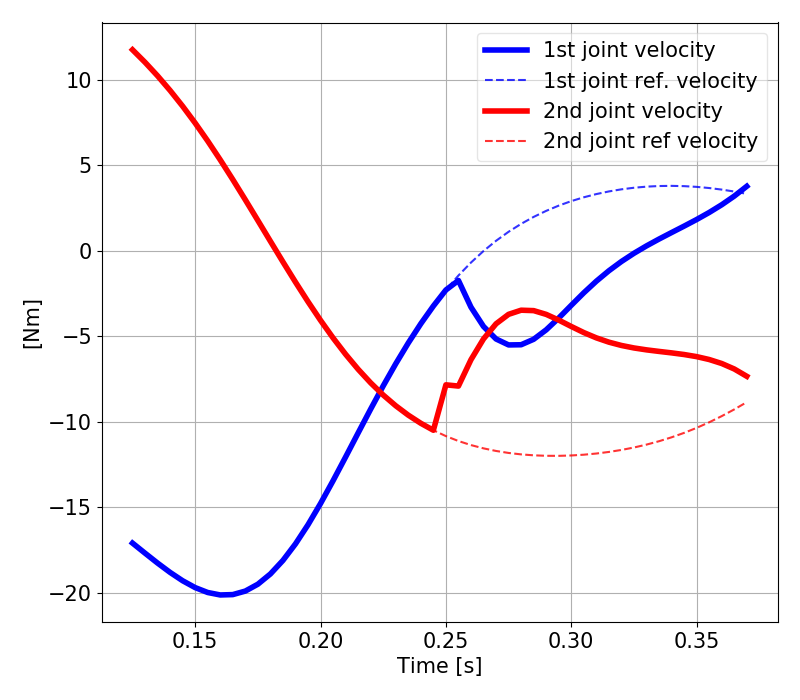
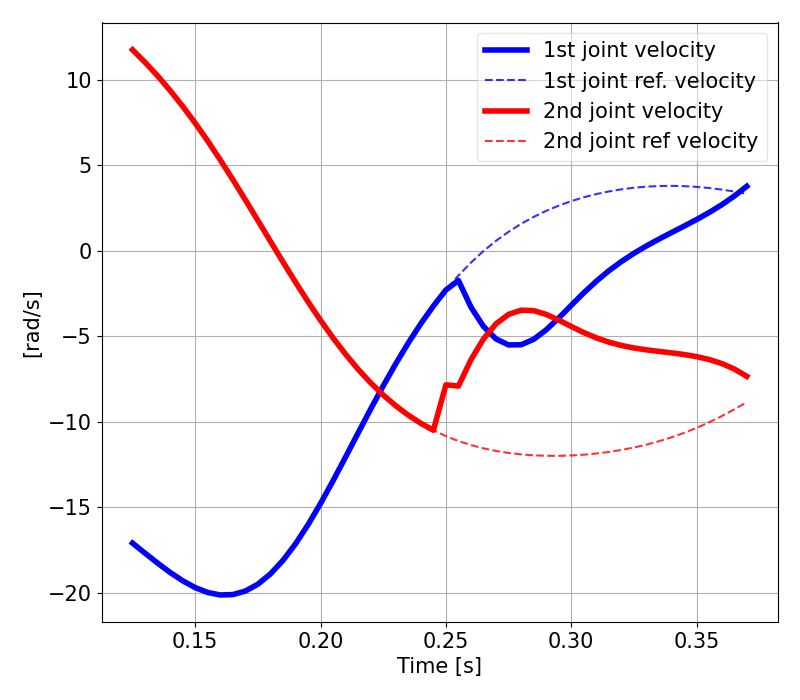
update assignment 02

Changed region(s): [[0.7188, 0.06, 0.9375, 0.21], [0.5, 0.93, 0.5938, 0.96], [0.0312, 0.42, 0.0625, 0.51]]

diff --git a/02_assignment/ddp_doublependulum_template.py b/02_assignment/ddp_doublependulum_template.py
@@ -238,6 +238,7 @@ class DDPSolverDoublePendulum(DDPSolverLinearDyn):
         cost = self.cost(X_sim, U_sim)                                          
         print("Cost Sim.", cost)
         print("Effort Sim.", np.linalg.norm(U_sim))
+        print("K", np.linalg.norm(KK))
         return X_sim, U_sim
 
 
@@ -263,7 +264,7 @@ if __name__=='__main__':
     mu = 10                  # initial regularization
     ddp_params = {}
     ddp_params['alpha_factor'] = 0.5
-    ddp_params['mu_factor'] = 0.
+    ddp_params['mu_factor'] = 10.
     ddp_params['mu_max'] = 1e0
     ddp_params['min_alpha_to_increase_mu'] = 0.1
     ddp_params['min_cost_impr'] = 1e-1
@@ -368,8 +369,6 @@ if __name__=='__main__':
         # plt.gca().set_xlabel('Time [s]')
         # plt.gca().set_ylabel('[Nm]')
         # leg = plt.legend(["1st joint torque", "1st joint ref. torque","2nd joint torque", "2nd joint ref. torque"],loc='upper right')
-        #plt.plot(time_vec[:-1], U_sim[:,1], "r")
-        #plt.plot(time_vec[:-1], U[:,1], "r--", alpha=0.8, linewidth=1.5)
         if conf.TORQUE_LIMITS:
             plt.plot(time_vec[:-1], max_torque*np.ones(len(time_vec[:-1])), "k--", alpha=0.8, linewidth=1.5)
             plt.plot(time_vec[:-1], -max_torque*np.ones(len(time_vec[:-1])), "k--", alpha=0.8, linewidth=1.5)
@@ -422,7 +421,7 @@ if __name__=='__main__':
         plt.plot(time_vec, X_sim[:,3],'r')
         plt.plot(time_vec, X[:,3],'r--', alpha=0.8, linewidth=1.5)
         plt.gca().set_xlabel('Time [s]')
-        plt.gca().set_ylabel('[Nm]')
+        plt.gca().set_ylabel('[rad/s]')
         #plt.xlim(-0.2,2.2)
         #plt.ylim(-30,50)
         plt.legend(["1st joint velocity","1st joint ref. velocity","2nd joint velocity","2nd joint ref velocity"],loc='upper right')
@@ -432,7 +431,7 @@ if __name__=='__main__':
         # plt.plot(time_vec[25:75], X_sim[25:75,3], "r")
         # plt.plot(time_vec[25:75], X[25:75,3], "r--", alpha=0.8, linewidth=1.5)
         # plt.gca().set_xlabel('Time [s]')
-        # plt.gca().set_ylabel('[Nm]')
+        # plt.gca().set_ylabel('[rad/s]')
         # plt.legend(["1st joint velocity","1st joint ref. velocity","2nd joint velocity","2nd joint ref velocity"],loc='upper right')
         # plt.figure()
         # plt.plot(time_vec[75:125], X_sim[75:125,2], "b")
@@ -440,7 +439,7 @@ if __name__=='__main__':
         # plt.plot(time_vec[75:125], X_sim[75:125,3], "r")
         # plt.plot(time_vec[75:125], X[75:125,3], "r--", alpha=0.8, linewidth=1.5)
         # plt.gca().set_xlabel('Time [s]')
-        # plt.gca().set_ylabel('[Nm]')
+        # plt.gca().set_ylabel('[rad/s]')
         # plt.legend(["1st joint velocity","1st joint ref. velocity","2nd joint velocity","2nd joint ref velocity"],loc='upper right')
         # plt.figure()
         # plt.plot(time_vec[175:225], X_sim[175:225,2], "b")

diff --git a/02_assignment/ddp.py b/02_assignment/ddp.py
@@ -84,7 +84,7 @@ def backward_pass(solver, X_bar, U_bar, mu):
             
             if(solver.DEBUG):
                 print("Qbar_uu, Qbar_uu_pinv",a2s(Qbar_uu), a2s(Qbar_uu_pinv))
-                print("kk, KK", a2s(solver.kk[i,ru]), a2s(solver.KK[i,ru,rx]))
+                print("kk, KK", a2s(solver.kk[i,ru]), a2s(solver.KK[i,ru,:]))
                 
             # update Value function
             V_x[i,:]    = (solver.Q_x[i,:] - 
@@ -250,6 +250,7 @@ class DDPSolver:
         cost = self.cost(X, U)
         print("Cost  ", cost)
         print("Effort", np.linalg.norm(U))
+        print("K", np.linalg.norm(KK))
         
     ''' Discrete-time system dynamics '''
     def f(x, u):

diff --git a/02_assignment/ddp_doublependulum_conf.py b/02_assignment/ddp_doublependulum_conf.py
@@ -26,7 +26,7 @@ tau_coulomb_max = 0*np.ones(2)   # expressed as percentage of torque max
 randomize_robot_model = 0
 model_variation = 10.0
 
-PUSH = 0                         # flag to activate four pushes on the second joint (instantaneous variation of the second joint velocity) at N/8, N/4, N/2 and 3*N/4 simulation steps
+PUSH = 1                         # flag to activate four pushes on the second joint (instantaneous variation of the second joint velocity) at N/8, N/4, N/2 and 3*N/4 simulation steps
 push_vec = np.array([0,3])       # instantaneous velocity increment of the second joint
 
 SELECTION_MATRIX = 1             # flag to use the selection matrix method
